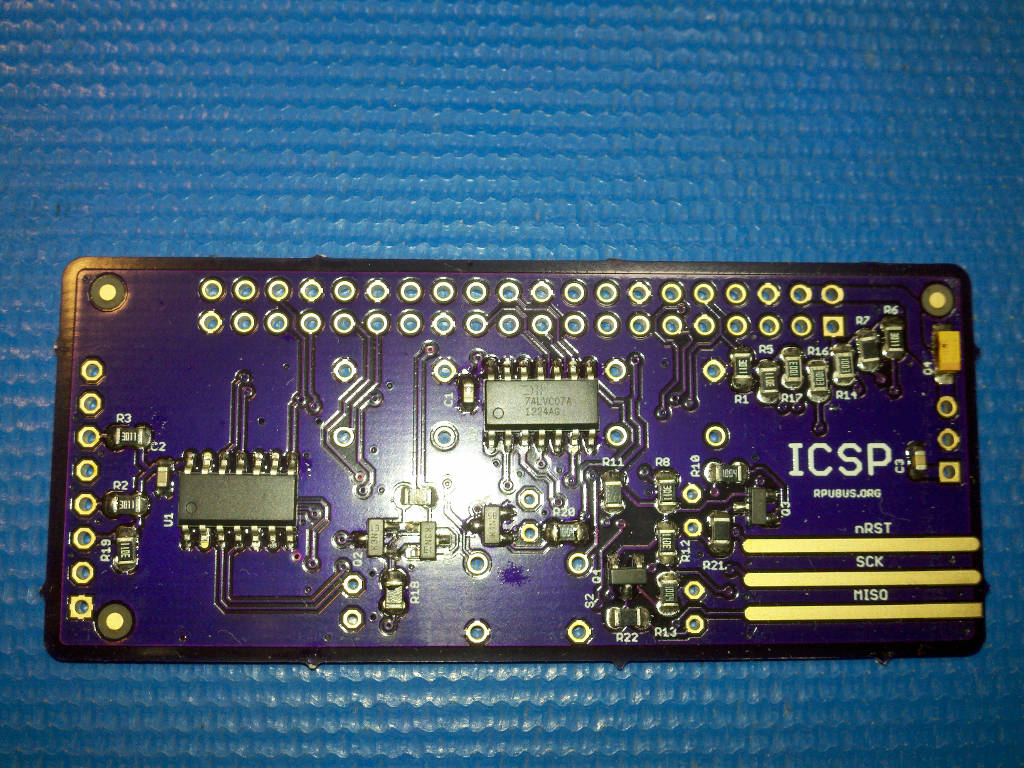
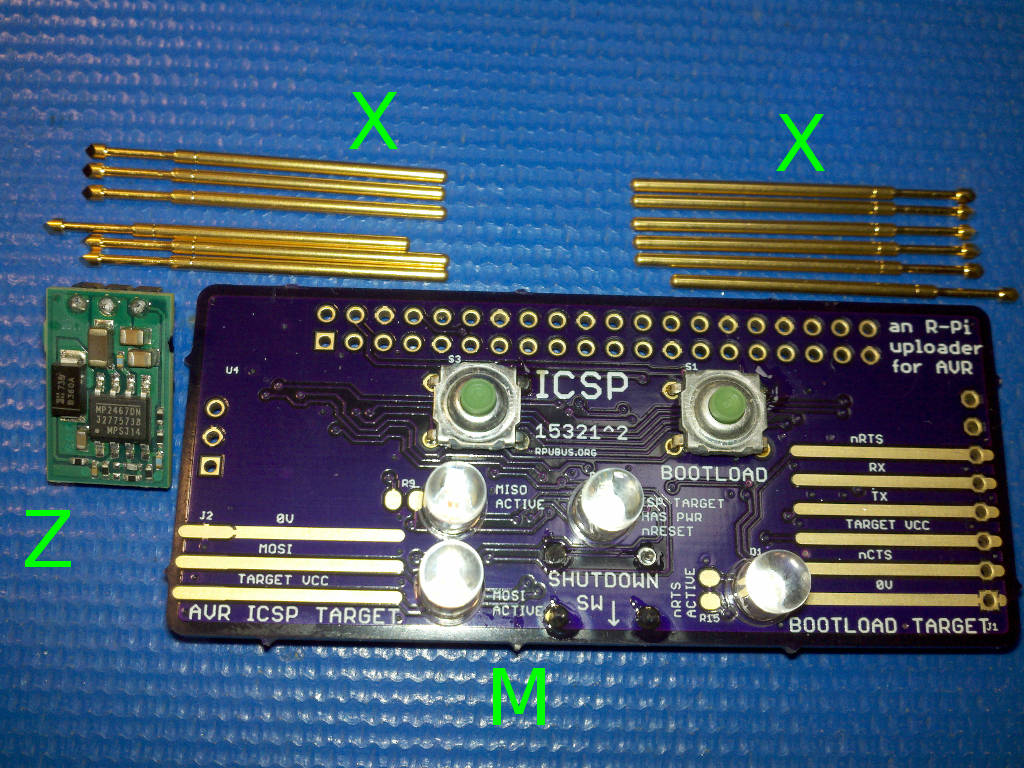
ICSP: ^2 testing started

diff --git a/ICSP/Testing/readme.md b/ICSP/Testing/readme.md
@@ -15,7 +15,7 @@ This is a list of Test preformed on each board after assembly.
 
 ## Basics
 
-These tests are for an assembled ICSP board 15321^1 which may be referred to as a Unit Under Test (UUT). If the UUT fails and can be reworked then do so, otherwise it needs to be scraped. 
+These tests are for an assembled ICSP board 15321^2 which may be referred to as a Unit Under Test (UUT). If the UUT fails and can be reworked then do so, otherwise it needs to be scraped. 
 
 __Warning__: never use a soldering iron to rework ceramic capacitors due to the thermal shock.
 
@@ -31,16 +31,6 @@ After assembly check the circuit carefully to make sure all parts are soldered a
 Check continuity between pin and pad by measuring the reverse body diode drop from 0V (aka ground) and all other IC pads not connected to 0V. This value will vary somewhat depending on what the pin does, but there is typically an ESD diode to ground or sometimes a body diode (e.g. open drain MOSFET), thus a value of .4V to .7V is valid to indicate a solder connection. 
 
 
-## Bias 5V
+## TBD
 
-Setup a current limited supply with 5V and about 30mA limit. Connect the SPI input 0V (J1 pin 6) to the supply return. Connect the supply to input +5V (J1 pin 2), MOSI (J1 pin 4) and SCK (J1 pin 3) to the supply. 
-
-Connect the target voltage to the supply (J2 pin 2). Note the 0V is connected between to J1 and J2. 
-
-Pull down SCK (J1 pin 3) with a connection to the supply return.
-
-Pull down MOSI (J1 pin 4) with a connection to the supply return, pull up SCK (J1 pin 3) to the supply.
-
-Pull down nSS (J1 pin 5) with a connection to the supply return, pull up MOSI (J1 pin 4) to the supply.
-
-Pull down MISO (J2 pin 1) with a connection to the supply return, open nSS.
+Buffer U1 and U2 are powered by the target side. The probes are difficult to line up, and solder bridges are a problem, which can damage the target, check the ESD diode after soldering probes or headers to interface with the ICSP target.

diff --git a/ICSP/README.md b/ICSP/README.md
@@ -37,9 +37,9 @@ Use a Raspberry Pi Zero as a host with ^2 to do In-Circuit Serial Programming of
 ![Status](./status_icon.png "ICSP Status")
 
 ```
-        ^2  Done: Design, Layout, BOM, Review*, Order Boards,
-            WIP: Assembly,
-            Todo: Testing, Evaluation.
+        ^2  Done: Design, Layout, BOM, Review*, Order Boards, Assembly,
+            WIP: Testing,
+            Todo: Evaluation.
             *during review the Design may change without changing the revision.
             try with an R-Pi zero rather than Uno with ISP sketch.
             set up the serial port for bootloading use.
